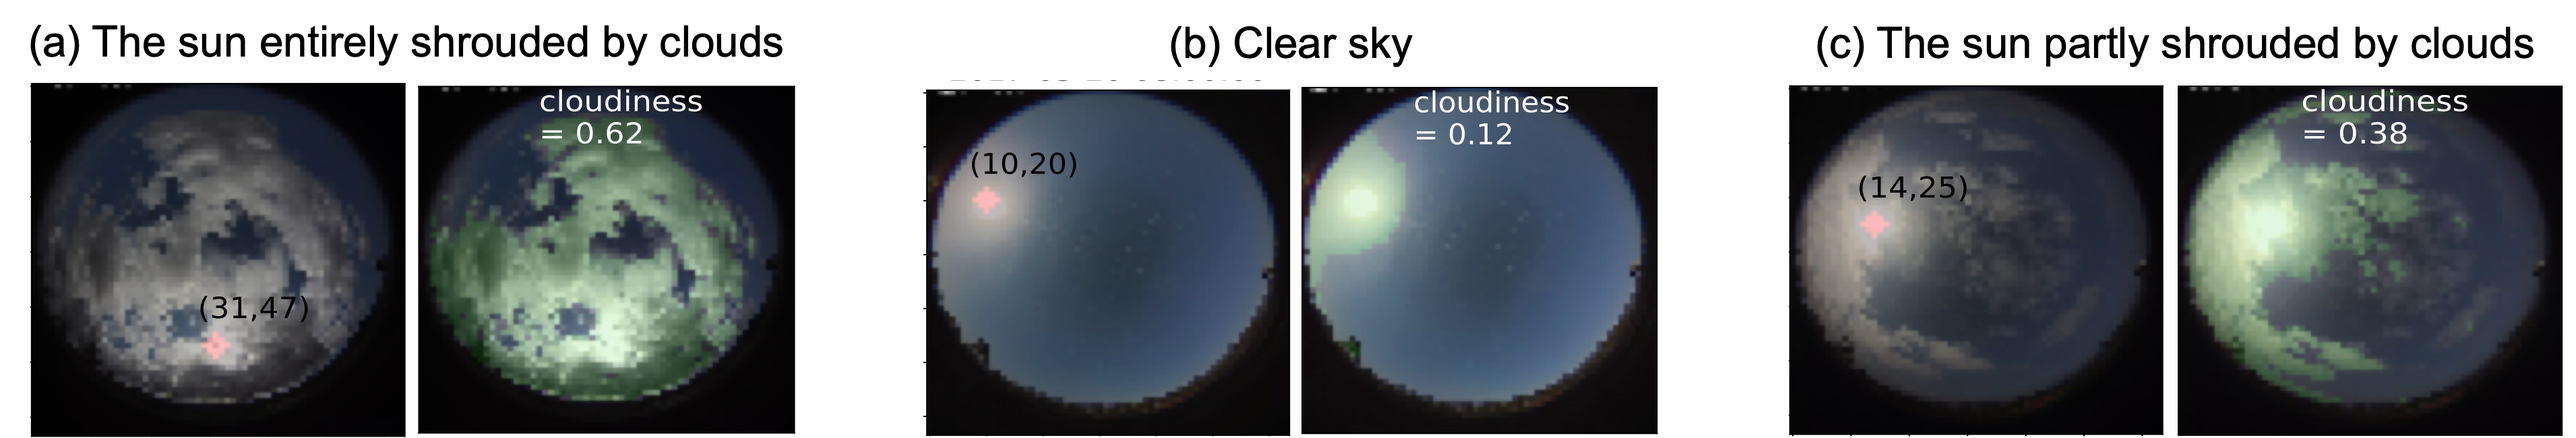
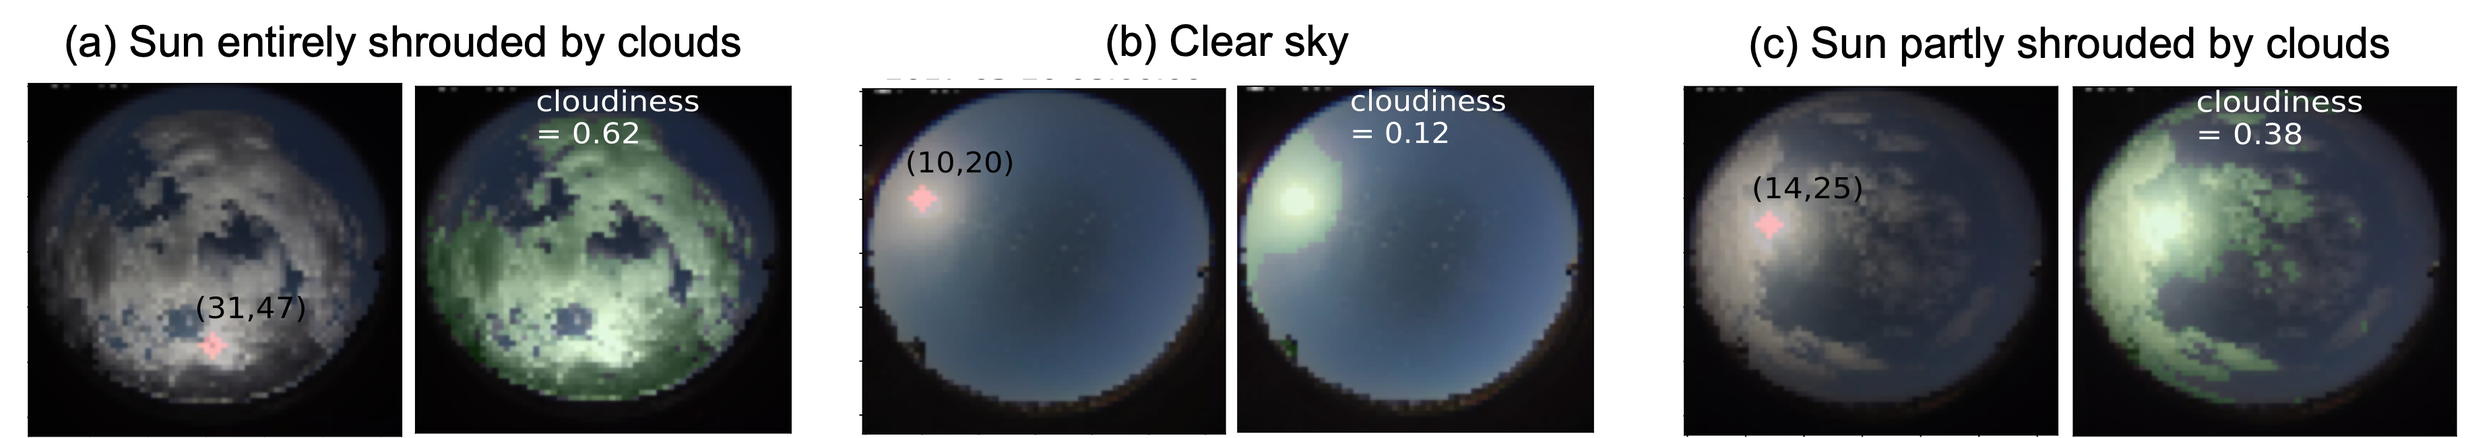
Update README

diff --git a/README.md b/README.md
@@ -3,7 +3,9 @@
 Clouds significantly impact PV panel output and pose challenges to the large-scale deployment of solar PV systems. Accurate detection of clouds in sky images is a critical step in cloud modeling, which is essential for reliable solar power forecasting. 
 
 ![demo_intermittency](/figs/demo_pv_output_cloudy_day.gif)
+<p align=justify>
 Figure 1. Power output of a 30-kW roof-top PV system on a partly cloudy day. Note how PV output fluctuates during the cloud events.
+</p>
 
 This repository presents an easy-to-implement yet effective algorithm for detecting clouds in ground-based sky images. This algorithm has been used in the study by [Nie et al. (2020)](https://pubs-aip-org.stanford.idm.oclc.org/aip/jrse/article/12/4/046101/284973) to identify cloud pixels in sky images for sky condition classification, which enables the development of tailored models for solar nowcasting specific to each sky condition. This classification-prediction framework show better performance with less model trainable parameters than the deep learning model [SUNSET](https://pubs-rsc-org.stanford.idm.oclc.org/en/content/articlehtml/2018/ee/c7ee03420b) that learns a map from sky images to PV power generation in an end-to-end fashion.
 
@@ -19,9 +21,11 @@ where R and B stand for the pixel values of the red and blue channels of a sky i
 Applying a NRBR threshold works well when the sun is totally shrouded by clouds, but the results are not satisfactory when it is clear sky or when the sun is partially shrouded by clouds (see Figure 2). The alrgorithm misclassifies the circumsolar pixels as cloud pixels because such pixels are often brighter than other areas and have a white or yellow-white character that activates the NRBR threshold. 
 
 ![demo_intermittency](/figs/demo_NRBR.png)
-Figure 2. Red pixels in original image indicates the identified sun position. Green pixels in each cloud detection method indicates the identified
+<p align=justify>
+Figure 2. Cloud detection using NRBR method for different sky conditions: (a) sun entirely shrouded by
+clouds; (b) clear sky; and (c) sun partially shrouded by clouds. The pixels are identified as clouds when their NRBR$\leq0.05$. Red pixels in original image indicates the identified sun position. Green pixels in each cloud detection method indicates the identified
 cloud pixels.
-
+</p>
 
  The column ``Fixed threshold method" of Figure \ref{fig:cloud_detection_results} shows the pixels identified as clouds (highlighted with a light green transparent color) for different sky conditions when a fixed NRBR threshold 0.05 is applied. The pixels are identified as clouds when their NRBR$\mathrm{\leq0.05}$. It can be observed that the method works well when the sun is totally shrouded by clouds (see row (C) column ``Fixed threshold method" of Figure \ref{fig:cloud_detection_results}), but the results are not satisfactory when it is clear sky or when the sun is partially shrouded by clouds (see row (A) and (B) column ``Fixed threshold method" of Figure \ref{fig:cloud_detection_results}), mainly due to misclassification of the circumsolar area pixels as clouds.
 
